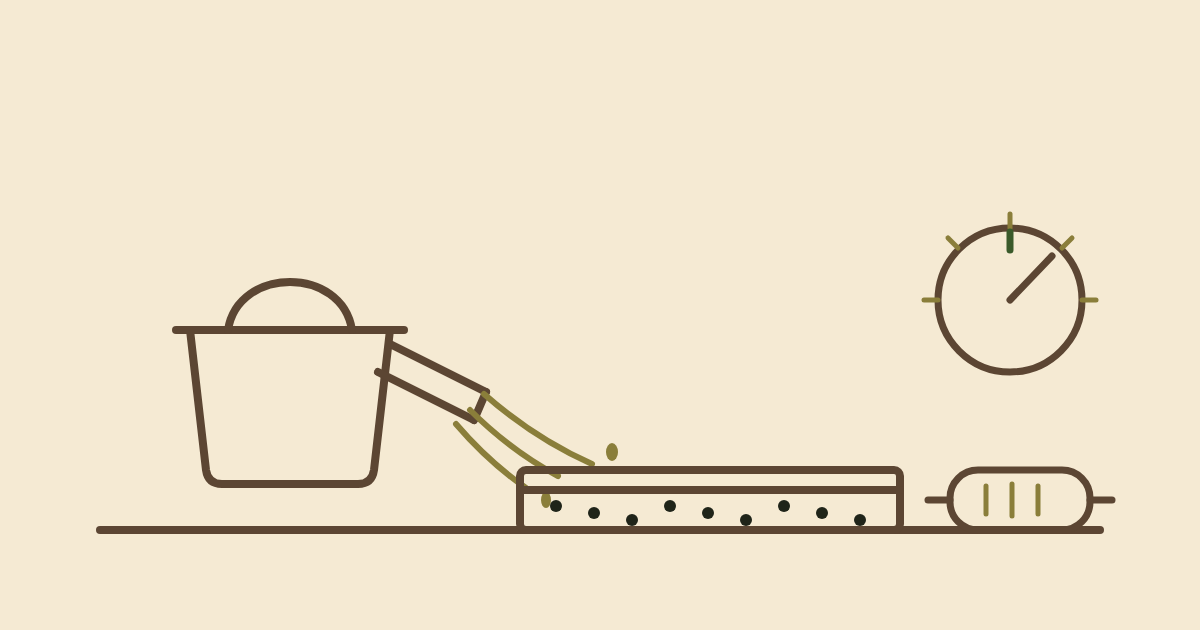
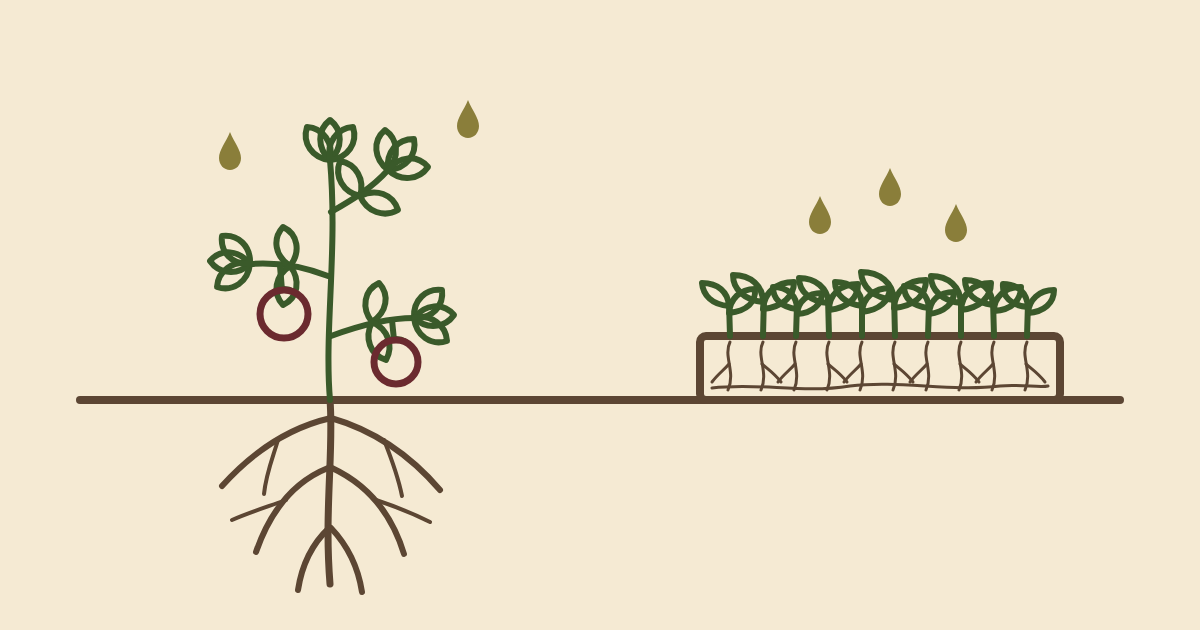
fix(blog): redraw the water post hero around root depth

diff --git a/scripts/make-heroes.py b/scripts/make-heroes.py
@@ -43,33 +43,54 @@ def ground(y, x1=120, x2=1080, stroke=BR, w=8):
 FILES={}
 
 # ---------------------------------------------------------------- Sep 11 water
-b =ground(530, 100, 1100)
-b+=g('    <path d="M190 330 L 390 330 L 374 470 Q 372 484 358 484 L 222 484 Q 208 484 206 470 Z"/>\n'
-     '    <path d="M176 330 H 404"/>\n'
-     '    <path d="M228 330 C 238 266 342 266 352 330"/>\n'
-     '    <path d="M390 344 L 486 392"/>\n'
-     '    <path d="M378 372 L 474 420"/>\n'
-     '    <path d="M486 392 L 474 420"/>\n')
-b+=g('    <path d="M484 394 C 518 424 556 448 592 464"/>\n'
-     '    <path d="M470 410 C 500 440 532 462 558 476"/>\n'
-     '    <path d="M456 424 C 480 452 506 474 526 488"/>\n', OL, 6)
-b+=g('    <ellipse cx="612" cy="452" rx="6" ry="9"/>\n'
-     '    <ellipse cx="546" cy="500" rx="5" ry="8"/>\n', OL, 0, OL)
-b+=g('    <rect x="520" y="470" width="380" height="60" rx="6"/>\n'
-     '    <path d="M520 490 H 900"/>\n')
-b+=g("".join(f'    <circle cx="{x}" cy="{506+(i%3)*7}" r="6"/>\n' for i,x in enumerate(range(556,890,38))),
-     DK, 0, DK)
-b+=g('    <rect x="950" y="470" width="140" height="60" rx="28"/>\n'
-     '    <path d="M928 500 H 950"/>\n    <path d="M1090 500 H 1112"/>\n', BR, 7)
-b+=g('    <path d="M986 486 V 514"/>\n    <path d="M1012 484 V 516"/>\n    <path d="M1038 486 V 514"/>\n', OL, 5)
-b+=g('    <circle cx="1010" cy="300" r="72"/>\n'
-     '    <path d="M1010 300 L 1052 256"/>\n', BR, 7)
-b+=g('    <path d="M1010 228 V 214"/>\n    <path d="M1062 248 L 1072 238"/>\n'
-     '    <path d="M958 248 L 948 238"/>\n    <path d="M1082 300 H 1096"/>\n'
-     '    <path d="M938 300 H 924"/>\n', OL, 5)
-b+=g('    <path d="M1010 250 V 232"/>\n', GR, 7)
+def leaf(x, y, ang, L=40, W=13):
+    ux,uy=math.cos(math.radians(ang)),math.sin(math.radians(ang))
+    p=lambda a,w:(x+ux*L*a-uy*w, y+uy*L*a+ux*w)
+    c1,c2,tip,c3,c4=p(.3,W),p(.75,W),p(1,0),p(.75,-W),p(.3,-W)
+    return (f'    <path d="M{x:.0f} {y:.0f} C {c1[0]:.0f} {c1[1]:.0f} {c2[0]:.0f} {c2[1]:.0f} {tip[0]:.0f} {tip[1]:.0f} '
+            f'C {c3[0]:.0f} {c3[1]:.0f} {c4[0]:.0f} {c4[1]:.0f} {x:.0f} {y:.0f} Z"/>\n')
+def drop(x, y):
+    return (f'    <path d="M{x} {y-18} C {x+4} {y-8} {x+11} {y} {x+11} {y+8} '
+            f'C {x+11} {y+15} {x+6} {y+20} {x} {y+20} C {x-6} {y+20} {x-11} {y+15} {x-11} {y+8} '
+            f'C {x-11} {y} {x-4} {y-8} {x} {y-18} Z"/>\n')
+b =ground(400, 80, 1120)
+b+=g('    <path d="M330 400 C 334 450 324 510 330 584"/>\n', BR, 7)
+b+=g('    <path d="M331 418 C 296 426 258 446 222 486"/>\n'
+     '    <path d="M331 418 C 366 428 404 448 440 490"/>\n'
+     '    <path d="M328 468 C 298 480 272 506 256 552"/>\n'
+     '    <path d="M332 468 C 362 482 390 508 404 554"/>\n'
+     '    <path d="M329 528 C 312 544 302 564 298 590"/>\n'
+     '    <path d="M331 528 C 348 546 358 566 362 592"/>\n', BR, 6)
+b+=g('    <path d="M278 440 C 272 460 266 474 264 494"/>\n'
+     '    <path d="M384 440 C 392 460 398 476 402 496"/>\n'
+     '    <path d="M286 500 C 270 506 250 512 232 520"/>\n'
+     '    <path d="M376 500 C 394 506 414 514 430 522"/>\n', BR, 4)
+tom ='    <path d="M330 400 C 324 330 338 250 330 160"/>\n'
+tom+='    <path d="M331 336 C 358 326 386 318 414 318"/>\n'
+tom+='    <path d="M328 276 C 302 266 276 262 250 264"/>\n'
+tom+='    <path d="M331 212 C 352 200 372 188 388 170"/>\n'
+for x,y,angs in ((414,318,(-45,-5,35)),(250,264,(145,185,225)),(388,170,(-95,-50,-5)),
+                 (330,160,(-125,-90,-55)),(372,322,(-80,70)),(290,266,(-100,100)),(360,196,(-120,20))):
+    tom+="".join(leaf(x,y,a) for a in angs)
+tom+='    <path d="M280 266 L 282 290"/>\n    <path d="M392 320 L 394 340"/>\n'
+tom+='    <path d="M274 292 Q 284 286 294 292"/>\n    <path d="M386 342 Q 396 336 406 342"/>\n'
+b+=g(tom, GR, 6)
+b+=g('    <circle cx="284" cy="314" r="24"/>\n    <circle cx="396" cy="362" r="22"/>\n', RD, 7)
+b+=g('    <rect x="700" y="336" width="360" height="64" rx="6"/>\n')
+greens=""; mat=""
+specs=[(0.78,-0.3),(0.90,0.2),(0.72,0.4),(0.86,-0.2),(0.80,0.1),
+       (0.94,-0.4),(0.74,0.3),(0.88,0.0),(0.82,-0.25),(0.76,0.35)]
+for i,(sc,ln) in enumerate(specs):
+    x=730+i*33; d=-1 if i%2 else 1
+    greens+=sprout(x, 336, sc, ln)
+    mat+=f'    <path d="M{x} 342 C {x-7} 356 {x+6} 372 {x-2} 390"/>\n'
+    mat+=f'    <path d="M{x-1} 364 C {x-6*d} 370 {x-12*d} 374 {x-18*d} 382"/>\n'
+mat+='    <path d="M712 388 C 760 382 800 394 850 386 C 900 380 950 392 1000 386 C 1020 384 1040 388 1048 386"/>\n'
+b+=g(greens, GR, 6)
+b+=g(mat, BR, 3)
+b+=g(drop(230,150)+drop(468,118)+drop(820,214)+drop(890,186)+drop(956,222), OL, 0, OL)
 FILES['water-why-filtered-matters']=(
- "Line drawing of a watering can pouring into a seeded tray, with a small inline filter and a pH gauge drawn beside it", b)
+ "Line drawing of a tomato plant with roots spreading deep into the soil beside a shallow tray of microgreens whose roots are a thin mat, with water drops falling over both", b)
 
 # ------------------------------------------------------- Sep 12 how much order
 b =ground(520, 90, 1110)

diff --git a/CONTENT-PLAN.md b/CONTENT-PLAN.md
@@ -366,7 +366,7 @@ file back into `posts/`.
 | Tue Sep 8 | Homestead journal | September, and no list yet | **Row reassigned 2026-09-01.** The scheduled "Fall is Florida's spring" stays unwritable for the same reason it always was, and its cover-crop half is covered by Sep 9. This row now takes the fall garden post that was drafted for Sep 1 and displaced by the predator attack. **Albert confirmed 2026-09-01 that nothing about the fall garden has changed**, and gave one new fact: **our oldest daughter is still using her two beds.** That turns the angle from "we have not decided" into "we have nowhere to put it," which is a different post and not a rerun. **Three collisions shaped it.** Aug 4 already printed "we do not have a list yet" and the whole plan-in-pencil argument, so that thesis is spent and is not re-argued; what Aug 4 gives instead is a dated promise ("we will figure it out in September") that the post opens by paying off. Aug 18 owns pile readiness, so the caps get one reference. The daughter's second-bed origin story has been spent four times and is **not retold**; the unpublished fact is that the beds are occupied. Aug 4's closer was also already used, so this one ends differently. **No pile count, no crop list for her beds, no fall crop list of our own.** Zero subheads and no CTA, both deliberate. 492 words, the shortest homestead journal in the archive, in a pillar that had never gone below 517. **Date references were rewritten from the first of the month to the eighth when it moved.** **Open question for review: it runs one week after the predator post and does not acknowledge it.** | [x] posts/september-and-no-list-yet.md |
 | Wed Sep 9 | Permaculture | Chop and drop | Turning cover crops into mulch in place. **This is the post the Aug 25 check-in promised in print** ("what happens to all of it eventually is its own post, and it is coming in September"), so it opens by paying that off. Technique first, then what you throw away by hauling: mulch now, a slow feed, and root dieback under legumes. Our own run is the sunn hemp chopped to eighteen inches about two months in and left lying, then the Jul 30 mow and the Aug 1 broadcast over residue. **Per-acre figure deliberately not published; the pass is written as the bag we had and close enough, never as label-rate and never as a mistake. No hunting implication.** Ends by refusing to invent a cut date for the current stand. 944 words. | [x] posts/chop-and-drop.md |
 | Thu Sep 10 | On the route | The car is the warehouse | **Row reassigned 2026-09-07**, the chefs post stays held with no wholesale accounts. Everything that goes out rides in the family Telluride with the third row down, and that is the physical capacity ceiling, which is the half of the small-on-purpose argument Sep 3 did not cover (Sep 3 was the calendar). Cooler bag does the work a cold room would. **No customers, no drops, no deliveries narrated as having happened.** | [ ] drafted posts/the-car-is-the-warehouse.md |
-| Fri Sep 11 | Growing notes | Water: why filtered matters | **Row reassigned 2026-09-07** off the held wholesale post; Albert picked this from the backlog. Facts already published in the Aug 1 organic-cert post: whole house filter, Kangen unit setting pH, trays at 6.0. Pays off the promise in `can-i-grow-microgreens-at-home` that water deserves its own post. Argument is that a seedling has no soil volume and no time to recover, so 1 bad input is a quarter of the crop. | [ ] drafted posts/water-why-filtered-matters.md |
+| Fri Sep 11 | Growing notes | Water: why filtered matters | **Row reassigned 2026-09-07** off the held wholesale post; Albert picked this from the backlog. Facts already published in the Aug 1 organic-cert post: whole house filter, Kangen unit setting pH, trays at 6.0. Pays off the promise in `can-i-grow-microgreens-at-home` that water deserves its own post. Argument is that a seedling has no soil volume and no time to recover, so 1 bad input is a quarter of the crop. **Hero redrawn 2026-09-11**: the watering can read as a lidded pot and the filter and pH gauge floated, so it was replaced with the post's actual argument, a yard tomato with deep roots beside a shallow tray whose roots are a thin mat, water falling on both. | [ ] drafted posts/water-why-filtered-matters.md |
 | Sat Sep 12 | Reader questions | How much should I order? | **Row reassigned 2026-09-07.** Its scheduled post already ran on Sep 4 as `our-greens-versus-the-grocery-store`. Answer is start at 2oz, argued from the 7 day shelf life rather than from a price. **Deliberately does not repeat "most households start with 2 to 4 ounces" from `pages/index.md` and `pages/pricing.liquid`, which is pre-correction invented-demand copy and is also in the FAQ JSON-LD.** Gives the recommendation in our own voice instead. 272 words, a new floor for the pillar. | [ ] drafted posts/how-much-should-i-order.md |
 
 ### Week 11 · Sep 13-19 · Arc 3

diff --git a/posts/water-why-filtered-matters.md b/posts/water-why-filtered-matters.md
@@ -4,7 +4,7 @@ description: "Every tray in the shed drinks the same water the house does, filte
 date: 2026-09-11T09:00:00-04:00
 pillar: Growing notes
 hero: /assets/blog/water-why-filtered-matters.svg
-hero_alt: "Line drawing of a watering can pouring into a seeded tray, with a small inline filter and a pH gauge drawn beside it"
+hero_alt: "Line drawing of a tomato plant with roots spreading deep into the soil beside a shallow tray of microgreens whose roots are a thin mat, with water drops falling over both"
 image: /assets/blog/water-why-filtered-matters.png
 ---
 
